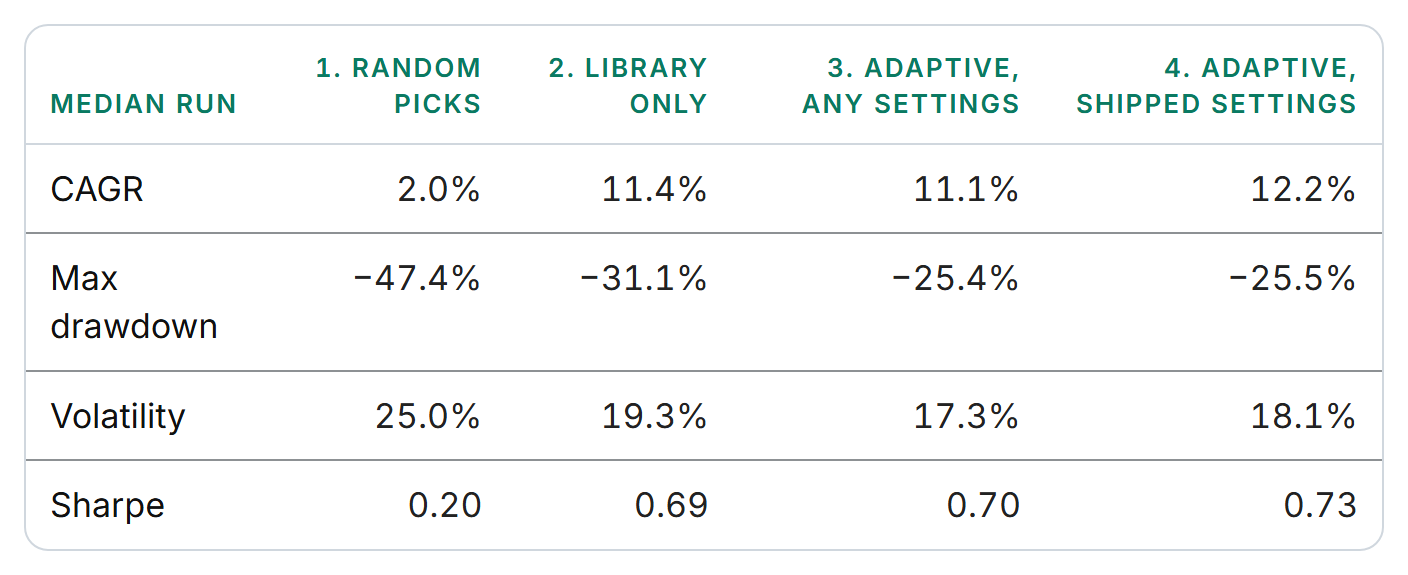
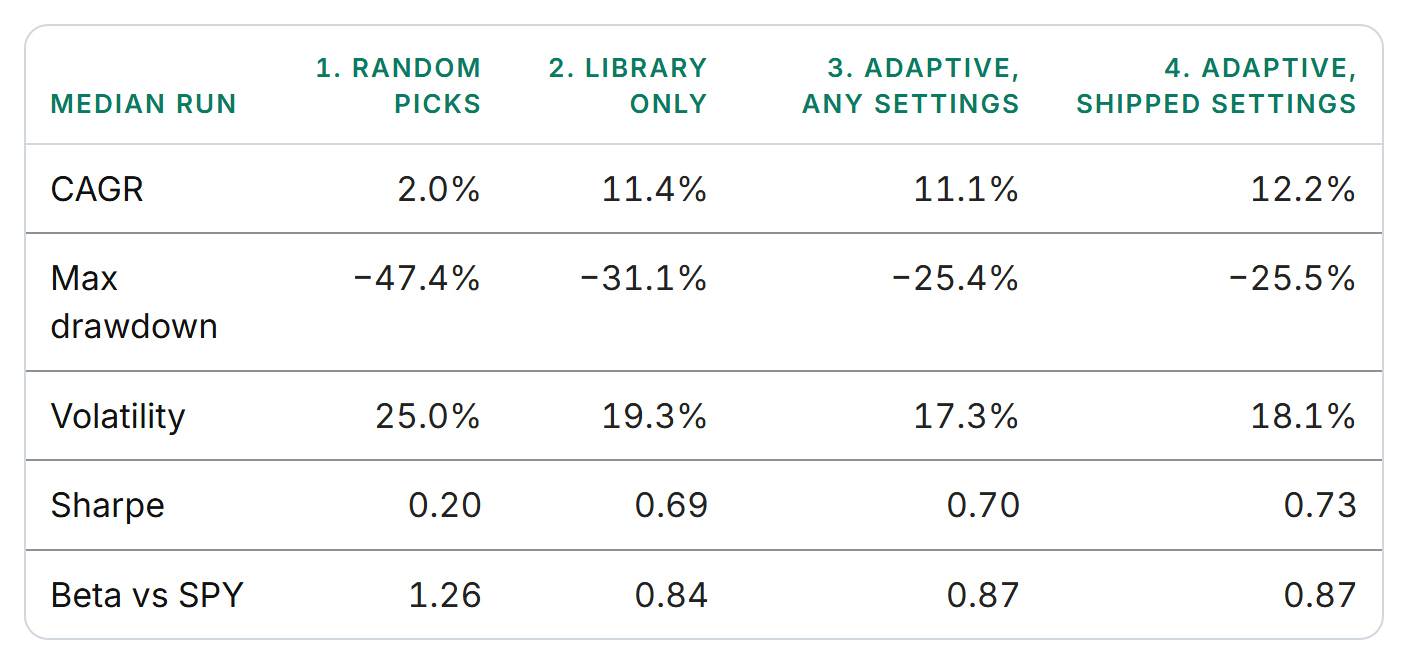
Edge study: beta row under Table 2 (side calculation: random picks 1.26, library versions 0.84 to 0.87 against SPY)

diff --git a/can-financial-statements-tell-you-which-stocks-to-buy/index.html b/can-financial-statements-tell-you-which-stocks-to-buy/index.html
@@ -265,10 +265,17 @@ article td:first-child { color:var(--text); }
 <td style="text-align: right;">0.70</td>
 <td style="text-align: right;">0.73</td>
 </tr>
+<tr>
+<td>Beta vs SPY</td>
+<td style="text-align: right;">1.26</td>
+<td style="text-align: right;">0.84</td>
+<td style="text-align: right;">0.87</td>
+<td style="text-align: right;">0.87</td>
+</tr>
 </tbody>
 </table></div>
-<p><em>Table 2. The median strategy in the main universe for each version, August 2016 to July 2026. Random picking made 2% per year with a 47% worst fall. Every version that used the library made 11% to 12% per year with a worst fall of 25% to 31%.</em></p>
-<p>Max drawdown is the worst fall from a previous high, and volatility is how much the portfolio's value moved from quarter to quarter.</p>
+<p><em>Table 2. The median strategy in the main universe for each version, August 2016 to July 2026. Random picking made 2% per year with a 47% worst fall. Every version that used the library made 11% to 12% per year with a worst fall of 25% to 31%. Beta is against SPY over the quarters each strategy was invested, a side calculation added after the run.</em></p>
+<p>Max drawdown is the worst fall from a previous high, and volatility is how much the portfolio's value moved from quarter to quarter. Beta is how much of that movement came from the market: SPY is 1.0 by definition, and a strategy at 0.87 moved, on average, 87% as far as SPY in the same direction each quarter, with the rest of its movement specific to its own stocks. Beta wasn't in the scorecard, so this row is a side calculation like the cap-weighted comparison later on, and it carries no verdict. It does explain the volatility row. SPY's own volatility on the same measure was 14%, so the strategies moved more than the index while moving less with it, which is what holding ten companies instead of five hundred does. Random picks had more market exposure than the index and every version that used the library had less, and after allowing for that lower exposure, the median library strategy's return came within a point of SPY's and was 2.4 to 2.8 points per year ahead of the equal-weight index's.</p>
 <p>Each strategy was also scored against random, and Figure 1 shows the median score for each version.</p>
 <p><img alt="The four versions of the picker against 500 random portfolios" src="/assets/edge-study/fig1_ladder.png" /></p>
 <p><em>Figure 1. Each version's score against random in the main universe. The score is the share of 500 random portfolios the median strategy beat, so 50 means no better than random. The grey band is where the study called a result not detected, and the lines are the 95% range.</em></p>
